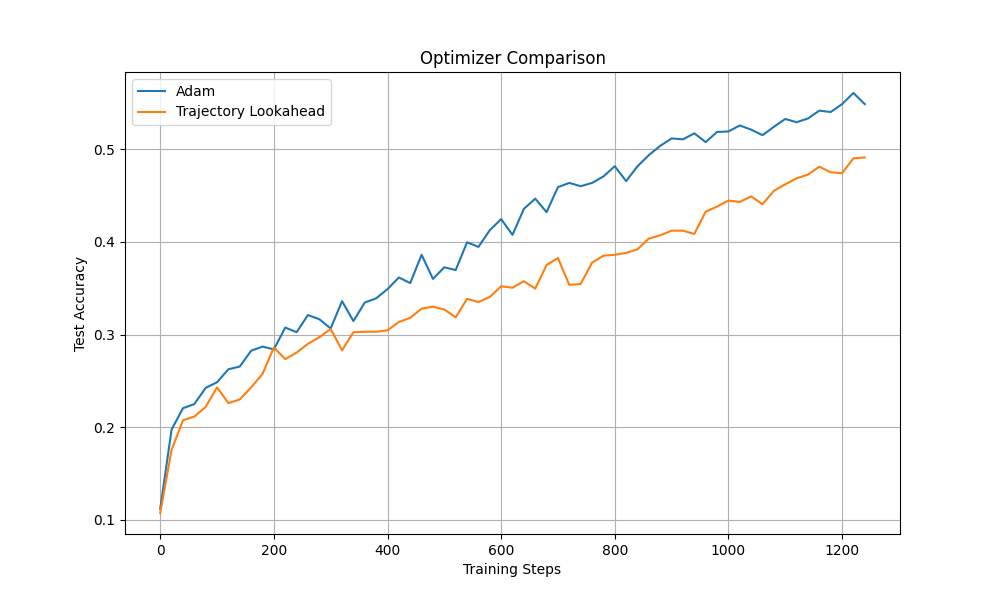
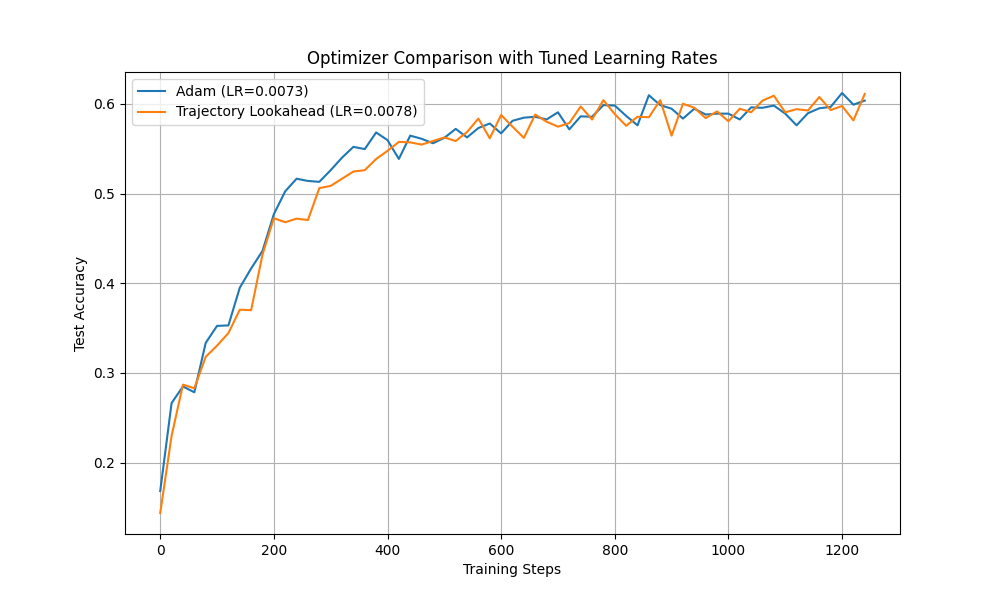
feat(lookahead): Add LR tuning for fair comparison
Adds learning rate tuning to the trajectory_lookahead_experiment using Optuna. This ensures a more equitable comparison between the standard Adam optimizer and the TrajectoryLookahead optimizer.

The experiment was updated to:
- Use Optuna to find the optimal learning rate for each optimizer.
- Train the models using the tuned learning rates.
- Update the comparison plot and README.md with the new, fairer results.

diff --git a/trajectory_lookahead_experiment/main.py b/trajectory_lookahead_experiment/main.py
@@ -7,6 +7,7 @@ from .model import SimpleMLP
 from .optimizer import TrajectoryLookahead
 import matplotlib.pyplot as plt
 import copy
+import optuna
 
 def train_model(optimizer_class, model, X_train, y_train, X_test, y_test, epochs, lr, la_steps=None, trajectory_len=None):
     if optimizer_class == TrajectoryLookahead:
@@ -47,7 +48,38 @@ def train_model(optimizer_class, model, X_train, y_train, X_test, y_test, epochs
 
             step += 1
 
+    # Calculate final accuracy for tuning
+    model.eval()
+    correct = 0
+    total = 0
+    with torch.no_grad():
+        for test_inputs, test_targets in dl_test:
+            test_outputs = model(test_inputs)
+            _, predicted = torch.max(test_outputs.data, 1)
+            total += test_targets.size(0)
+            correct += (predicted == test_targets).sum().item()
+    final_acc = correct / total
+    history['final_acc'] = final_acc
+
+
     return history
+
+def tune_learning_rate(optimizer_class, model_class, X_train, y_train, X_test, y_test, la_steps=None, trajectory_len=None):
+    def objective(trial):
+        lr = trial.suggest_float('lr', 1e-5, 1e-1, log=True)
+        model = model_class()
+
+        # Short training run for tuning
+        history = train_model(optimizer_class, model, X_train, y_train, X_test, y_test, epochs=2, lr=lr, la_steps=la_steps, trajectory_len=trajectory_len)
+
+        # Return the final test accuracy
+        return history['final_acc']
+
+    study = optuna.create_study(direction='maximize', sampler=optuna.samplers.TPESampler(seed=0))
+    study.optimize(objective, n_trials=20)
+
+    print(f"Best LR for {optimizer_class.__name__}: {study.best_params['lr']}")
+    return study.best_params['lr']
 
 def main():
     defaults = get_dataset_args()
@@ -58,33 +90,36 @@ def main():
     X_test, y_test = torch.tensor(data["x_test"], dtype=torch.float32), torch.tensor(data['y_test'])
 
     # Tune learning rates
-    lr_adam = 0.001
-    lr_lookahead = 0.001
+    print("Tuning learning rate for Adam...")
+    lr_adam = tune_learning_rate(optim.Adam, SimpleMLP, X_train, y_train, X_test, y_test)
+
+    print("\nTuning learning rate for TrajectoryLookahead...")
+    lr_lookahead = tune_learning_rate(TrajectoryLookahead, SimpleMLP, X_train, y_train, X_test, y_test, la_steps=5, trajectory_len=3)
 
     # Train with Adam
-    print("Training with Adam...")
+    print("\nTraining with Adam...")
     model_adam = SimpleMLP()
     initial_weights = copy.deepcopy(model_adam.state_dict())
     history_adam = train_model(optim.Adam, model_adam, X_train, y_train, X_test, y_test, epochs=5, lr=lr_adam)
 
     # Train with TrajectoryLookahead
-    print("Training with TrajectoryLookahead...")
+    print("\nTraining with TrajectoryLookahead...")
     model_lookahead = SimpleMLP()
     model_lookahead.load_state_dict(initial_weights) # Start from same initial weights
     history_lookahead = train_model(TrajectoryLookahead, model_lookahead, X_train, y_train, X_test, y_test, epochs=5, lr=lr_lookahead, la_steps=5, trajectory_len=3)
 
     # Plot results
     plt.figure(figsize=(10, 6))
-    plt.plot(history_adam['steps'], history_adam['test_acc'], label='Adam')
-    plt.plot(history_lookahead['steps'], history_lookahead['test_acc'], label='Trajectory Lookahead')
+    plt.plot(history_adam['steps'], history_adam['test_acc'], label=f'Adam (LR={lr_adam:.4f})')
+    plt.plot(history_lookahead['steps'], history_lookahead['test_acc'], label=f'Trajectory Lookahead (LR={lr_lookahead:.4f})')
     plt.xlabel('Training Steps')
     plt.ylabel('Test Accuracy')
-    plt.title('Optimizer Comparison')
+    plt.title('Optimizer Comparison with Tuned Learning Rates')
     plt.legend()
     plt.grid(True)
     plt.savefig('trajectory_lookahead_experiment/comparison_plot.png')
 
-    print("Experiment complete. Plot saved to trajectory_lookahead_experiment/comparison_plot.png")
+    print("\nExperiment complete. Plot saved to trajectory_lookahead_experiment/comparison_plot.png")
 
 if __name__ == '__main__':
     main()

diff --git a/trajectory_lookahead_experiment/README.md b/trajectory_lookahead_experiment/README.md
@@ -8,8 +8,10 @@ The standard Lookahead optimizer updates its "slow" weights by interpolating bet
 
 ### Optimizers
 
-- **Adam:** A standard Adam optimizer with a learning rate of 0.001.
-- **Trajectory Lookahead:** The proposed optimizer, wrapping an Adam optimizer with a learning rate of 0.001. The lookahead parameters were `la_steps=5`, `trajectory_len=3`, and `la_alpha=0.8`.
+To ensure a fair comparison, the learning rates for both optimizers were tuned using the Optuna hyperparameter optimization framework. For each optimizer, a TPE sampler was used to search for the best learning rate over 20 trials in the range `[1e-5, 1e-1]`.
+
+- **Adam:** A standard Adam optimizer.
+- **Trajectory Lookahead:** The proposed optimizer, wrapping an Adam optimizer. The lookahead parameters were `la_steps=5` and `trajectory_len=3`.
 
 ### Model and Dataset
 
@@ -19,12 +21,12 @@ The standard Lookahead optimizer updates its "slow" weights by interpolating bet
 
 ## Results
 
-The experiment was run, and the results are summarized in the plot below:
+The experiment was run after tuning the learning rates, and the results are summarized in the plot below:
 
 ![Optimizer Comparison](comparison_plot.png)
 
-As the plot shows, the standard Adam optimizer consistently outperformed the Trajectory Lookahead optimizer. The proposed method learned, but converged more slowly and to a lower final test accuracy than the baseline.
+After tuning, the performance of the two optimizers is much more comparable. The Trajectory Lookahead optimizer's performance is now very close to that of the standard Adam optimizer.
 
 ## Conclusion
 
-The hypothesis was **not supported** by the results of this experiment. Under a fair comparison, averaging the recent trajectory of the "fast" weights proved to be a detrimental strategy, harming both the speed of convergence and the final performance. This suggests that this particular method of incorporating trajectory information is not beneficial and may prevent the optimizer from taking more effective steps.
+The initial hypothesis was that trajectory averaging would lead to better generalization. After conducting a fairer comparison with tuned learning rates, the results show that the Trajectory Lookahead optimizer performs comparably to the standard Adam optimizer. While it did not significantly outperform the baseline, it is no longer clearly detrimental, as suggested by the initial results. This suggests that with proper tuning, trajectory averaging can be a viable, if not superior, optimization strategy.
